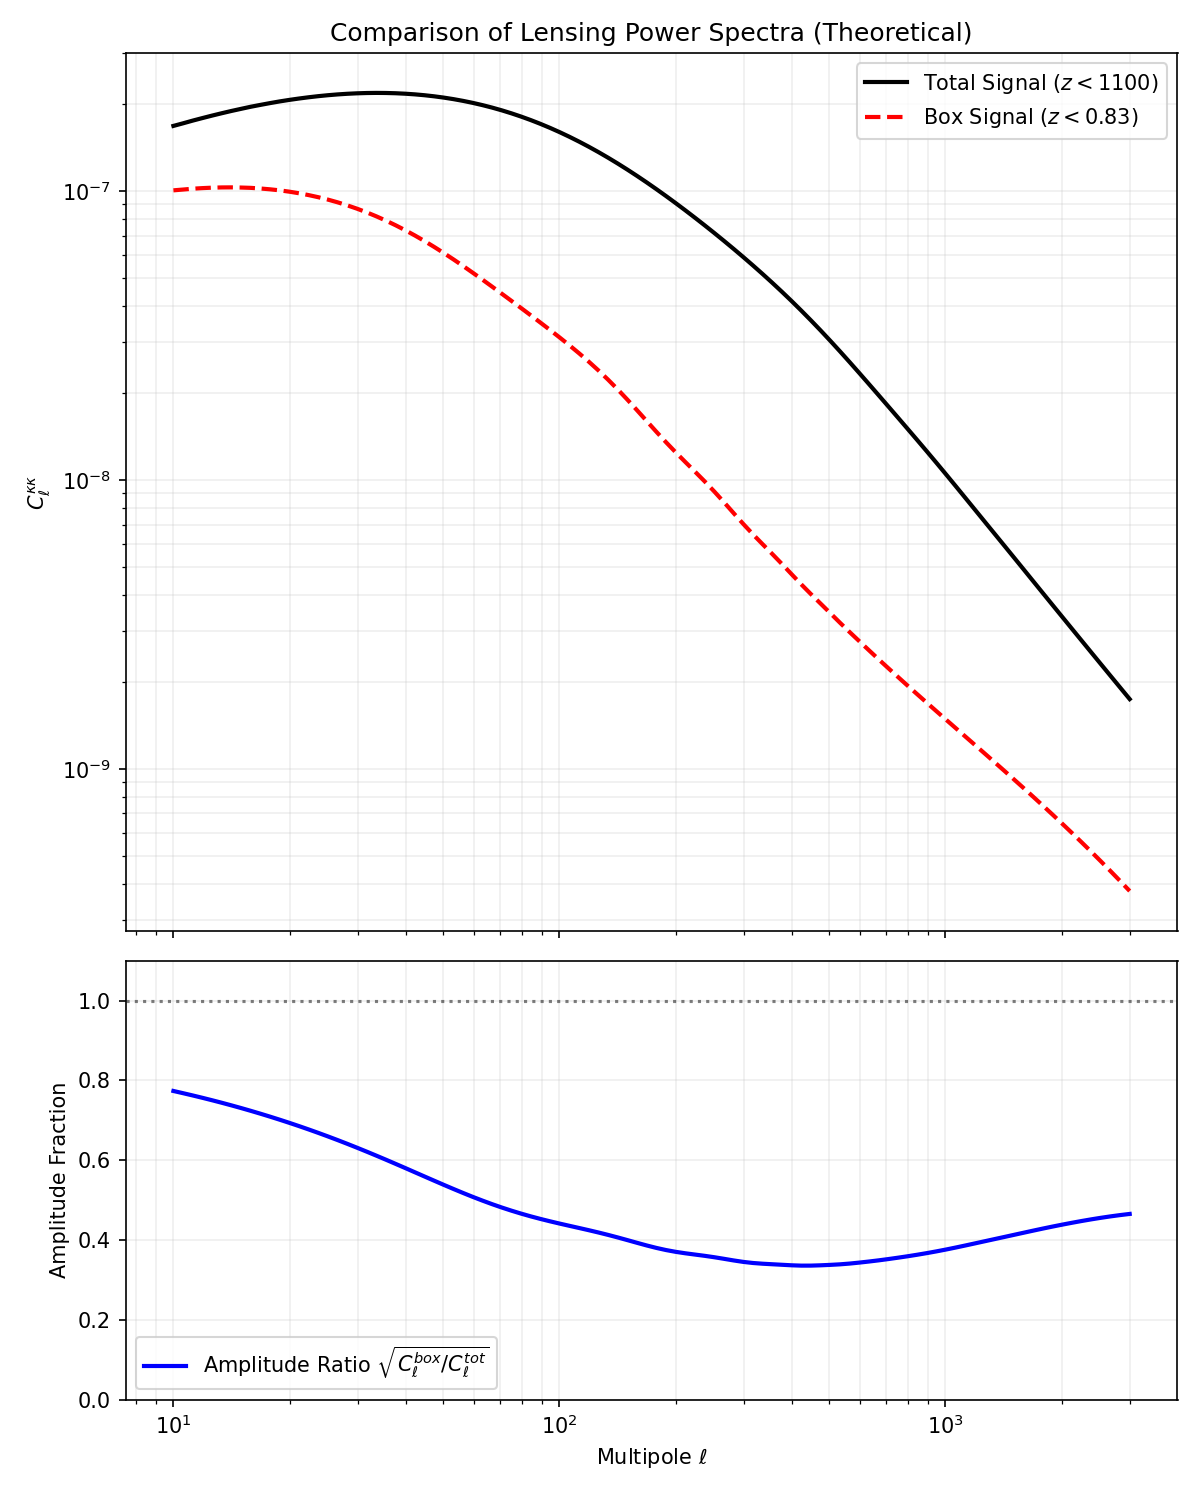
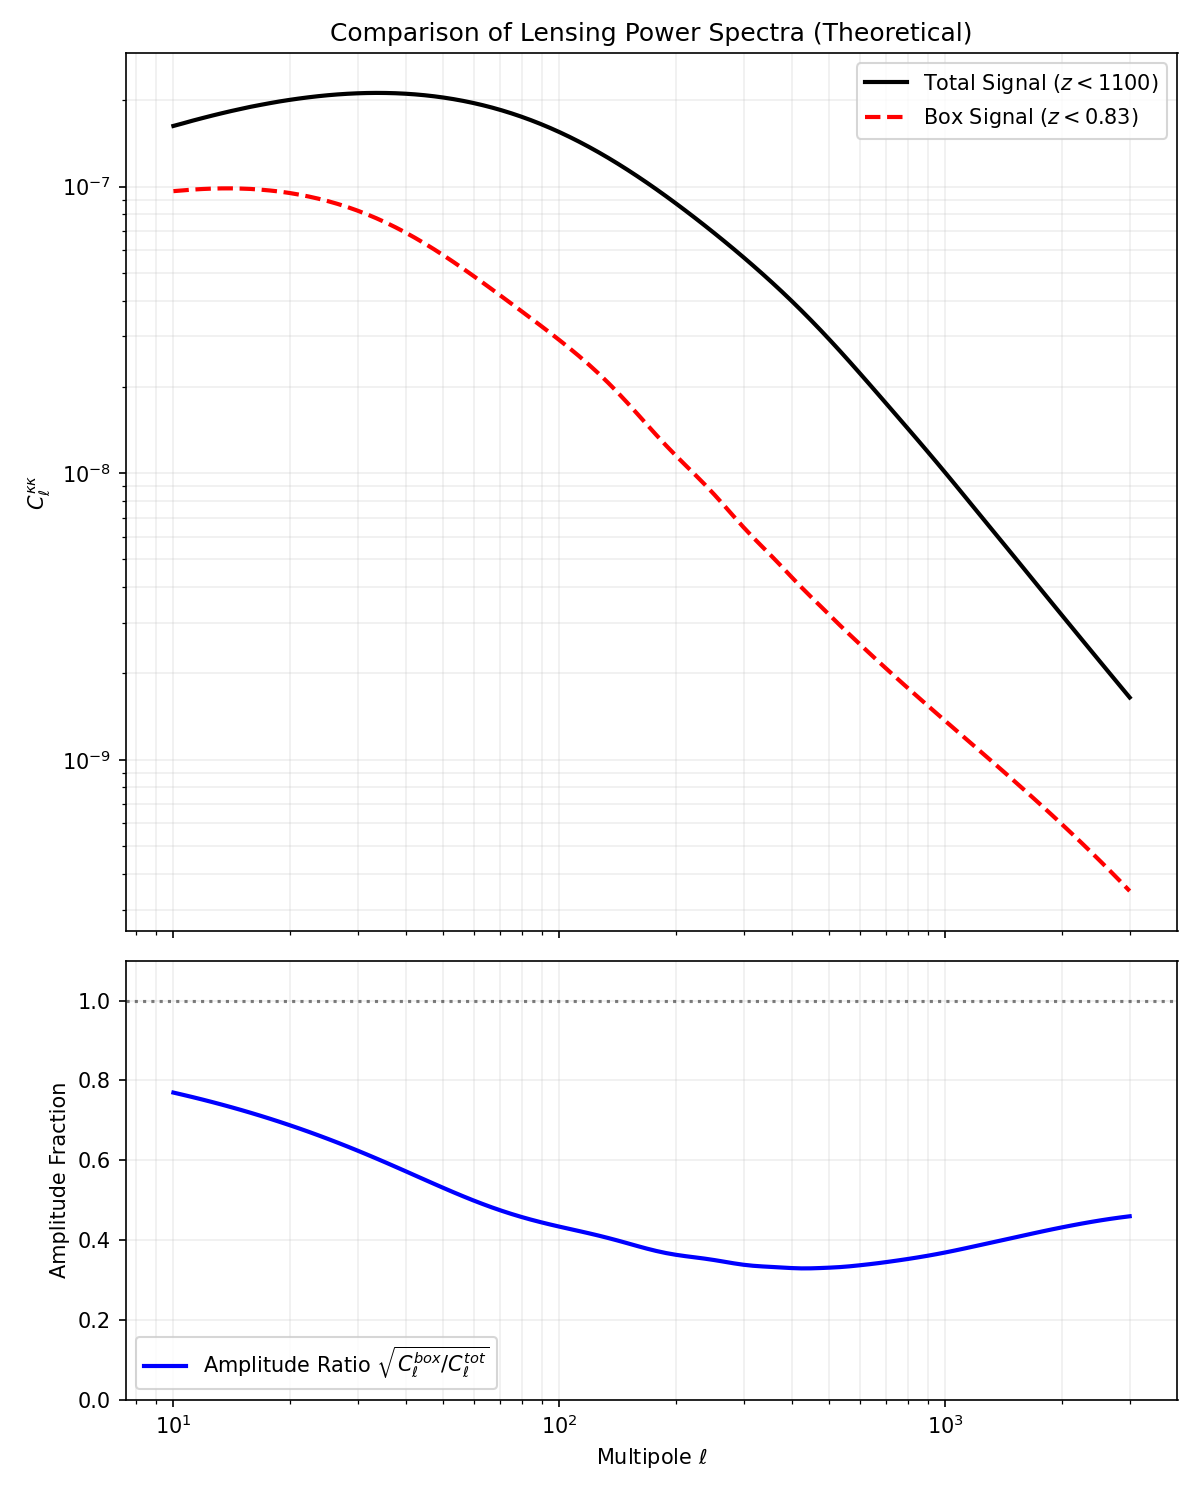
correction avec la bonne cosmologie

diff --git a/scripts/plot_lensing_fraction.py b/scripts/plot_lensing_fraction.py
@@ -3,6 +3,7 @@ import jax.numpy as jnp
 import jax_cosmo as jc
 import matplotlib.pyplot as plt
 
+from desi_cmb_fli.bricks import get_cosmology
 from desi_cmb_fli.cmb_lensing import compute_theoretical_cl_kappa
 
 
@@ -10,7 +11,7 @@ def plot_fraction_vs_depth():
     print("Computing Lensing Signal Fraction...")
 
     # 1. Define Cosmology
-    cosmo = jc.Planck15(Omega_c=0.26, Omega_b=0.049, h=0.67, n_s=0.96, sigma8=0.81)
+    cosmo = get_cosmology(Omega_m=0.3, sigma8=0.8)
 
     # 2. Parameters
     z_source = 1100.0
@@ -75,7 +76,7 @@ def plot_spectra_comparison():
     print("\nComputing Lensing Spectra Comparison (Box vs Total)...")
 
     # 1. Define Cosmology
-    cosmo = jc.Planck15(Omega_c=0.26, Omega_b=0.049, h=0.67, n_s=0.96, sigma8=0.81)
+    cosmo = get_cosmology(Omega_m=0.3, sigma8=0.8)
     z_source = 1100.0
 
     # High resolution ell for smooth plot
